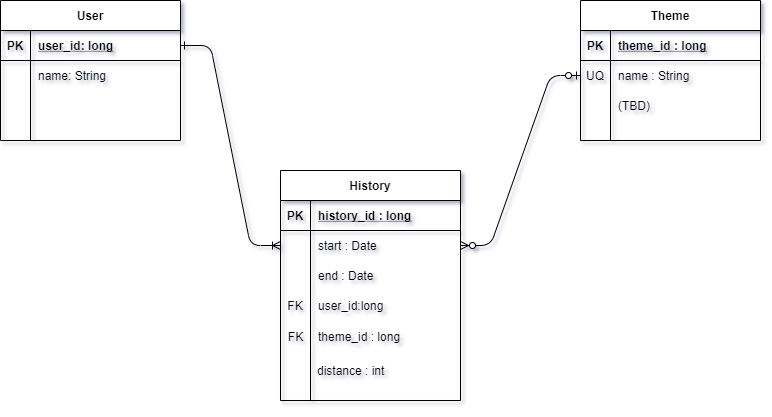
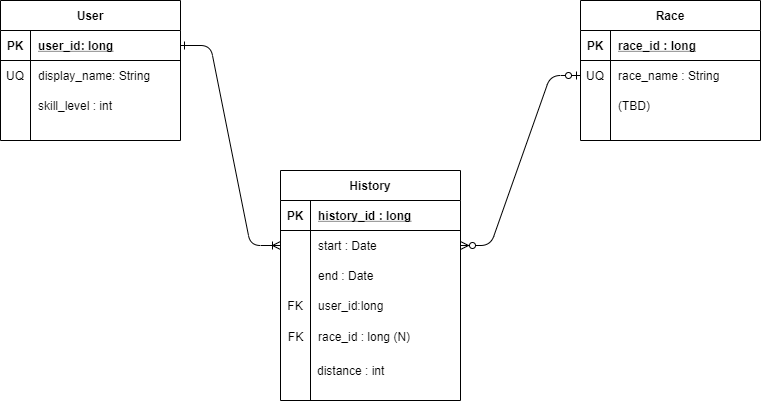
updated history class

diff --git a/app/src/main/java/edu/cnm/deepdive/myfunrun/model/entity/History.java b/app/src/main/java/edu/cnm/deepdive/myfunrun/model/entity/History.java
@@ -3,12 +3,74 @@ package edu.cnm.deepdive.myfunrun.model.entity;
 
 
 
+import androidx.room.ColumnInfo;
 import androidx.room.Entity;
+import androidx.room.ForeignKey;
+import androidx.room.PrimaryKey;
+import java.util.Date;
+import javax.annotation.Nonnull;
 
 
-@Entity
+@Entity(
+    foreignKeys = {
+        @ForeignKey(
+            entity = Race.class,
+            parentColumns = "history_id",
+            childColumns = "race_id",
+            onDelete = ForeignKey.SET_NULL),
+        @ForeignKey(
+            entity = User.class,
+            parentColumns = "history_id",
+            childColumns = "user_id",
+            onDelete = ForeignKey.SET_NULL)
+    } )
+
 public class History {
 
+  @PrimaryKey(autoGenerate = true)
+  @ColumnInfo(name = "history_id")
+  private long id;
 
+  @ColumnInfo(name = "distance", index = true)
+  private int distance;
 
+  @Nonnull
+  private Date start;
+
+  @Nonnull
+  private Date end;
+
+  public long getId() {
+    return id;
+  }
+
+  public void setId(long id) {
+    this.id = id;
+  }
+
+  public int getDistance() {
+    return distance;
+  }
+
+  public void setDistance(int distance) {
+    this.distance = distance;
+  }
+
+  @Nonnull
+  public Date getStart() {
+    return start;
+  }
+
+  public void setStart(@Nonnull Date start) {
+    this.start = start;
+  }
+
+  @Nonnull
+  public Date getEnd() {
+    return end;
+  }
+
+  public void setEnd(@Nonnull Date end) {
+    this.end = end;
+  }
 }

diff --git a/app/src/main/java/edu/cnm/deepdive/myfunrun/model/entity/User.java b/app/src/main/java/edu/cnm/deepdive/myfunrun/model/entity/User.java
@@ -1,9 +1,28 @@
 package edu.cnm.deepdive.myfunrun.model.entity;
 
 
+import androidx.room.ColumnInfo;
 import androidx.room.Entity;
+import androidx.room.Index;
+import androidx.room.PrimaryKey;
 
-@Entity
+@Entity(
+    indices = @Index(value = "display_name", unique = true)
+)
 public class User {
 
+  @PrimaryKey(autoGenerate = true)
+  @ColumnInfo(name = "user_id")
+  private long id;
+
+  @ColumnInfo(name = "skill_level", index = true)
+  private int skillLevel;
+
+  public int getSkillLevel() {
+    return skillLevel;
+  }
+
+  public void setSkillLevel(int skillLevel) {
+    this.skillLevel = skillLevel;
+  }
 }

diff --git a/app/src/main/java/edu/cnm/deepdive/myfunrun/model/entity/Race.java b/app/src/main/java/edu/cnm/deepdive/myfunrun/model/entity/Race.java
@@ -1,0 +1,17 @@
+package edu.cnm.deepdive.myfunrun.model.entity;
+
+
+import androidx.room.ColumnInfo;
+import androidx.room.Entity;
+import androidx.room.Index;
+import androidx.room.PrimaryKey;
+
+@Entity(
+    indices = @Index(value = "race_name", unique = true)
+)
+public class Race {
+
+  @PrimaryKey(autoGenerate = true)
+  @ColumnInfo(name = "race_id")
+  private long id;
+}

diff --git a/docs/user_stories.md b/docs/user_stories.md
@@ -1,14 +1,15 @@
 ## User-stories
 
-* Race Enthusists 
+* Race Enthusiasts 
 
-    > As an ultra-runner who runs long hours, I want to be able to track my runs so that I can see 
-                      >my progress while training.
+    > As an ultra-runner, I run long hours preparing for each race, I would really benefit from 
+                      >being able to track each run and view stats later for progress.
 
-* New Runners.
+* Unmotivated Runners.
 
-    > As someone who is new to running I am looking for help staying motivated!
+    > As runner that lacks motivation, I would love to have an app that provides encouragement and
+                          > motivation along my runs to keep me going!
    
-* Bored Runners
+* Runners in a Rut
     > I run regularly along my same route and would like something new and exciting without having 
                   >to go far from home.
